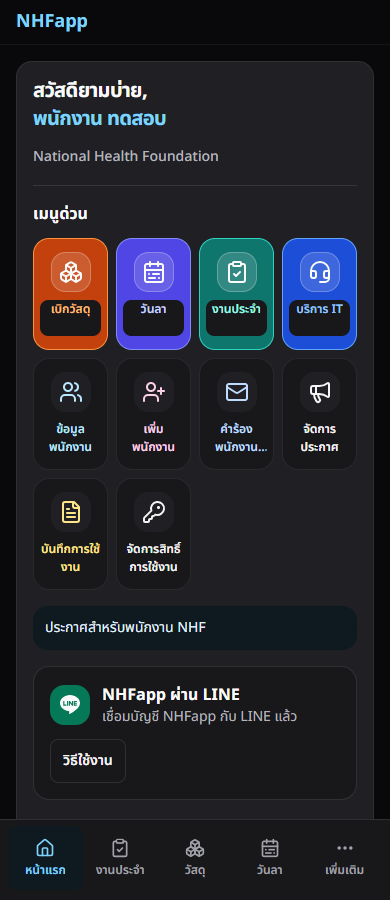
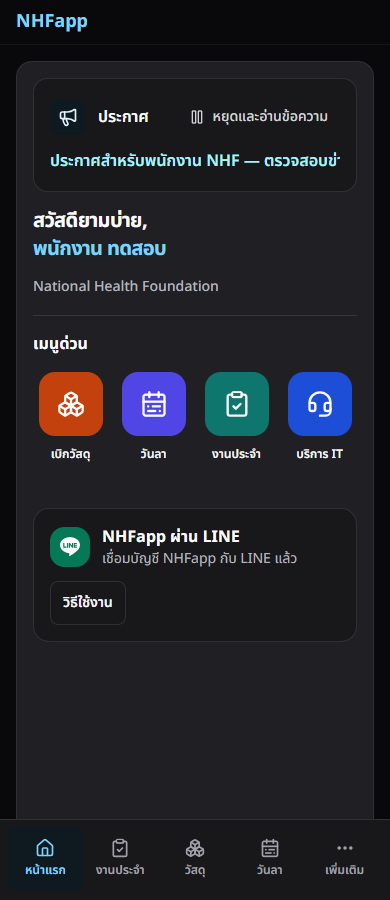
fix(dashboard): restrict cardless mobile shortcuts to featured modules

diff --git a/__tests__/components/DashboardHomeSection.test.tsx b/__tests__/components/DashboardHomeSection.test.tsx
@@ -178,12 +178,14 @@ describe("compact NHF quick actions", () => {
         const grid = screen.getByRole("region", { name: "เมนูด่วน" });
         const buttons = within(grid).getAllByRole("button");
         expect(buttons.map((button) => button.textContent)).toEqual(["เบิกวัสดุ", "วันลา", "งานประจำ", "บริการ IT"]);
-        expect(buttons[0]).toHaveClass("bg-module-stock-dashboard-surface");
-        expect(buttons[1]).toHaveClass("bg-module-leave-dashboard-surface");
-        expect(buttons[2]).toHaveClass("bg-module-routine-dashboard-surface");
-        expect(buttons[3]).toHaveClass("bg-module-it-dashboard-surface");
+        expect(buttons[0].querySelector("[data-shortcut-icon]")).toHaveClass("bg-module-stock-dashboard-surface");
+        expect(buttons[1].querySelector("[data-shortcut-icon]")).toHaveClass("bg-module-leave-dashboard-surface");
+        expect(buttons[2].querySelector("[data-shortcut-icon]")).toHaveClass("bg-module-routine-dashboard-surface");
+        expect(buttons[3].querySelector("[data-shortcut-icon]")).toHaveClass("bg-module-it-dashboard-surface");
         for (const button of buttons) {
-            expect(button).toHaveClass("h-28", "focus-visible:ring-2");
+            expect(button).toHaveClass("bg-transparent", "focus-visible:ring-2");
+            expect(button.querySelector("[data-shortcut-icon]")).toHaveClass("size-16");
+            expect(button.querySelector("[data-shortcut-label]")?.parentElement).toBe(button);
             expect(button.querySelector(".line-clamp-2")).not.toBeNull();
             expect(button).not.toHaveTextContent("Quick action");
         }
@@ -201,9 +203,34 @@ describe("compact NHF quick actions", () => {
         vi.mocked(useDashboardDataContext).mockReturnValue({ status: "authenticated", user: undefined, isAdmin: true, availableMenuGroups: DASHBOARD_MENU_GROUPS });
         view.rerender(<DashboardHomeSection />);
         const grid = screen.getByRole("region", { name: "เมนูด่วน" });
-        expect(within(grid).getByRole("button", { name: "จัดการสิทธิ์การใช้งาน" })).toBeInTheDocument();
-        fireEvent.click(within(grid).getByRole("button", { name: "จัดการสิทธิ์การใช้งาน" }));
-        expect(useDashboardUIContext().handleMenuClick).toHaveBeenCalledWith("authorization-administration");
+        expect(within(grid).getAllByRole("button")).toHaveLength(4);
+        expect(within(grid).queryByText("จัดการสิทธิ์การใช้งาน")).not.toBeInTheDocument();
+        expect(within(grid).queryByText(/ทั้งหมด|เพิ่มเติม/)).not.toBeInTheDocument();
+        // Secondary services remain in the unchanged desktop presentation.
+        expect(screen.getByRole("button", { name: /จัดการสิทธิ์การใช้งาน/ })).toBeInTheDocument();
+    });
+
+    it("uses only Stock and Routine for a limited capability set", () => {
+        const group = DASHBOARD_MENU_GROUPS[0];
+        renderHome([{ ...group, items: group.items.filter(item => ["stock", "routine"].includes(item.id)) }]);
+        expect(within(screen.getByRole("region", { name: "เมนูด่วน" })).getAllByRole("button").map(button => button.textContent)).toEqual(["เบิกวัสดุ", "งานประจำ"]);
+    });
+
+    it("does not substitute administrative services when no featured module is available", () => {
+        renderHome(DASHBOARD_MENU_GROUPS.slice(1));
+        const grid = screen.getByRole("region", { name: "เมนูด่วน" });
+        expect(within(grid).queryByRole("button")).not.toBeInTheDocument();
+        expect(within(grid).getByText("ยังไม่มีเมนูที่พร้อมใช้งานสำหรับบัญชีนี้")).toBeInTheDocument();
+    });
+
+    it("places the announcement before the greeting and actions in DOM reading order", () => {
+        renderHome(DASHBOARD_MENU_GROUPS);
+        const announcement = screen.getByText("ประกาศทดสอบ");
+        const greeting = screen.getByRole("heading", { level: 1 });
+        const grid = screen.getByRole("region", { name: "เมนูด่วน" });
+        expect(announcement.compareDocumentPosition(greeting) & Node.DOCUMENT_POSITION_FOLLOWING).toBeTruthy();
+        expect(greeting.compareDocumentPosition(grid) & Node.DOCUMENT_POSITION_FOLLOWING).toBeTruthy();
+        expect(announcement.parentElement?.className).not.toMatch(/order-/);
     });
 
     it("shows an empty state and follows actual feature/capability filtering", () => {
@@ -226,7 +253,12 @@ describe("compact NHF quick actions", () => {
             renderHome(groups);
             const grid = screen.getByRole("region", { name: "เมนูด่วน" });
             expect(within(grid).getByRole("button", { name: "วันลา (ยังไม่พร้อมให้บริการ)" })).not.toBeDisabled();
-            expect(within(grid).getByText(longLabel)).toHaveClass("line-clamp-2", "[overflow-wrap:anywhere]");
+            expect(within(grid).queryByText(longLabel)).not.toBeInTheDocument();
+            const leave = within(grid).getByRole("button", { name: "วันลา (ยังไม่พร้อมให้บริการ)" });
+            expect(within(leave).getByText("ยังไม่พร้อม")).toBeVisible();
+            expect(leave.querySelector("[data-shortcut-icon]")).toHaveClass("bg-surface-raised");
+            fireEvent.click(leave);
+            expect(useDashboardUIContext().handleMenuClick).toHaveBeenCalledWith("leave-management");
         } finally { vi.unstubAllEnvs(); }
     });
 });

diff --git a/components/dashboard/sections/DashboardHomeSection.tsx b/components/dashboard/sections/DashboardHomeSection.tsx
@@ -288,16 +288,17 @@ function CompactQuickAction({ item, onClick }: { item: MenuItem; onClick: () => 
     const config = MENU_ITEM_CONFIG[item.id] ?? DEFAULT_MENU_CONFIG;
     const Icon = item.icon;
     return (
-        <button type="button" onClick={onClick}
-            aria-label={`${COMPACT_LABELS[item.id] ?? item.sidebarLabel ?? item.label}${item.unavailable ? " (ยังไม่พร้อมให้บริการ)" : ""}`}
-            className={cn(
-                "flex h-28 min-w-0 w-full flex-col items-center justify-center gap-2 rounded-2xl border px-1.5 py-3 text-center transition-[background-color,transform] duration-150 active:translate-y-px focus-visible:outline-none focus-visible:ring-2 focus-visible:ring-offset-2",
-                config.featured ? [config.featuredSurface, config.featuredBorder, config.featuredFocus, "text-content-on-brand"] : ["border-border-muted bg-surface-raised hover:bg-surface-subtle focus-visible:ring-dashboard-focus", config.text],
+        <button type="button" onClick={onClick} data-shortcut-id={item.id}
+            aria-label={`${COMPACT_LABELS[item.id]}${item.unavailable ? " (ยังไม่พร้อมให้บริการ)" : ""}`}
+            className="group flex min-w-0 w-full flex-col items-center gap-2 rounded-2xl bg-transparent px-0.5 pt-1 pb-2 text-center text-content-primary focus-visible:outline-none focus-visible:ring-2 focus-visible:ring-dashboard-focus focus-visible:ring-offset-2">
+            <span data-shortcut-icon className={cn(
+                "flex size-16 shrink-0 items-center justify-center rounded-2xl transition-transform duration-150 group-active:translate-y-px motion-reduce:transform-none",
+                item.unavailable ? "bg-surface-raised text-content-muted" : [config.featuredSurface, "text-content-on-brand"],
             )}>
-            <span className={cn("flex size-10 shrink-0 items-center justify-center rounded-xl", config.featured ? "border border-content-on-brand/25 bg-content-on-brand/15" : "bg-surface-subtle")}>
-                <Icon className="size-6" aria-hidden="true" />
+                <Icon className="size-7" aria-hidden="true" />
             </span>
-            <span className={cn("line-clamp-2 h-9 w-full max-w-full rounded-md text-xs font-semibold leading-[1.125rem] [overflow-wrap:anywhere]", config.featured && [config.featuredControlSurface, config.text])}>{COMPACT_LABELS[item.id] ?? item.sidebarLabel ?? item.label}</span>
+            <span data-shortcut-label className="line-clamp-2 h-10 w-full max-w-full text-xs font-semibold leading-5 [overflow-wrap:anywhere]">{COMPACT_LABELS[item.id]}</span>
+            {item.unavailable ? <span className="text-xs leading-5 text-content-secondary">ยังไม่พร้อม</span> : null}
         </button>
     );
 }
@@ -350,10 +351,10 @@ export function DashboardHomeSection({ announcement }: { announcement?: ReactNod
     return (
         <div className="relative min-h-[calc(100dvh-6rem)] rounded-2xl border border-border-subtle/70 bg-dashboard-workspace p-4 pb-[calc(1rem+env(safe-area-inset-bottom))] sm:rounded-3xl md:p-8 md:pb-[calc(2rem+env(safe-area-inset-bottom))]">
             <div className="relative z-10 mx-auto flex max-w-7xl flex-col gap-4 lg:block lg:space-y-6">
-                {announcement ? <div className="order-3">{announcement}</div> : null}
+                {announcement}
                 <section
                     aria-labelledby="dashboard-home-heading"
-                    className="order-1 border-b border-border-subtle pb-4 lg:pb-8"
+                    className="border-b border-border-subtle pb-4 lg:pb-8"
                 >
                     <div className="min-w-0 max-w-3xl">
                         <div className="mb-5 hidden items-center lg:flex gap-2 text-xs font-bold uppercase tracking-[0.14em] text-brand-foreground">
@@ -410,15 +411,15 @@ export function DashboardHomeSection({ announcement }: { announcement?: ReactNod
                     </div>
 
                 </section>
-                <section aria-label="เมนูด่วน" className="order-2 lg:hidden">
+                <section aria-label="เมนูด่วน" className="lg:hidden">
                     <h2 className="mb-3 text-base font-bold text-content-heading">เมนูด่วน</h2>
-                    {activeItems.length === 0 ? <p className="rounded-xl border border-border-subtle bg-surface-raised p-4 text-sm text-content-secondary">ยังไม่มีเมนูที่พร้อมใช้งานสำหรับบัญชีนี้</p> : (
+                    {featuredItems.length === 0 ? <p className="rounded-xl border border-border-subtle bg-surface-raised p-4 text-sm text-content-secondary">ยังไม่มีเมนูที่พร้อมใช้งานสำหรับบัญชีนี้</p> : (
                         <div className="dashboard-compact-actions grid grid-cols-3 gap-2 min-[360px]:grid-cols-4">
-                            {activeItems.map((item) => <CompactQuickAction key={item.id} item={item} onClick={() => handleMenuClick(item.id)} />)}
+                            {featuredItems.filter((item) => FEATURED_ORDER.has(item.id)).map((item) => <CompactQuickAction key={item.id} item={item} onClick={() => handleMenuClick(item.id)} />)}
                         </div>
                     )}
                 </section>
-                <div className="order-4"><LineAddFriendCard tone="light" /></div>
+                <div><LineAddFriendCard tone="light" /></div>
 
                 <div className="hidden pt-4 lg:block">
                     {allMenuItems.length === 0 && (

diff --git a/components/dashboard/feedback/SectionSkeleton.tsx b/components/dashboard/feedback/SectionSkeleton.tsx
@@ -67,7 +67,7 @@ export function DashboardHomeSkeleton(): ReactElement {
                     <Skeleton className="h-7 w-56 max-w-full" />
                     <Skeleton className="h-5 w-40" />
                     <div className="grid grid-cols-3 gap-2 min-[360px]:grid-cols-4">
-                        {Array.from({ length: 4 }).map((_, index) => <Skeleton key={index} className="h-28 rounded-2xl" />)}
+                        {Array.from({ length: 4 }).map((_, index) => <div key={index} className="flex flex-col items-center gap-2"><Skeleton className="size-16 rounded-2xl" /><Skeleton className="h-10 w-16" /></div>)}
                     </div>
                 </div>
                 <div className="hidden space-y-6 lg:block">

diff --git a/docs/verification/mobile-navigation/README.md b/docs/verification/mobile-navigation/README.md
@@ -29,9 +29,13 @@ Read-only DEMI behavioral reference: `46f27bcf161f124d2c3231612db6778ea3d52919`.
   cancelling keeps the form mounted. This is not a new
   global browser-unload/history interception system.
 - `FeaturedCard` and `RegularCard` implementations, desktop Sidebar primitives,
-  DashboardProvider and server route-access code were compared against `main`
-  and remain unchanged. Desktop grid classes remain unchanged. Mobile cards use
-  the same filtered items, icons, handlers and `MENU_ITEM_CONFIG` tokens.
+  server route-access code remain unchanged. Desktop grid classes remain unchanged.
+  Mobile launcher shortcuts use only `featuredItems` in `FEATURED_ORDER` (Stock,
+  Leave, Routine, IT), the existing icons, handlers and module tokens on icon tiles.
+  Administrative/secondary services remain in More and Desktop Sidebar only.
+  Published announcements precede greeting/actions in DOM and visual order; null
+  announcements render no empty container. Unavailable Leave stays navigable with
+  a subdued tile and visible status.
 - No schema, migration, package, API, business-rule, authentication or session
   changes. No summaries, KPI widgets or summary fetching were introduced.
 
@@ -60,10 +64,14 @@ Read-only DEMI behavioral reference: `46f27bcf161f124d2c3231612db6778ea3d52919`.
 
 ## Rendered browser evidence
 
-`node scripts/check-mobile-navigation.mjs` passed **64 cases** in local Chromium:
-320, 375, 390, 768, 1024, 1440px; light and dark themes; Dashboard Home, More,
+`node scripts/check-mobile-navigation.mjs` passed **88 cases** in local Chromium:
+320, 375, 390, 422, 768, 1024, 1440px; light and dark themes; Dashboard Home, More,
 an inline-form/floating-action fixture and LIFF shell. Additional 320/390px
-fixtures cover one module, no modules, disabled flags and long Thai labels.
+fixtures cover one/two/no modules, administrative-only services, disabled flags,
+long Thai source labels, unavailable Leave and unpublished announcements.
+Assertions verify the exact four allowed IDs, transparent outer wrappers, one
+64px icon tile, labels outside tiles and announcement DOM/visual order.
+Home focused Vitest: **20 tests passed** after the product correction.
 Checks cover navigation visibility at `lg`, 3/4-column density, 44px minimum
 targets, no horizontal page overflow, sidebar collapse/expand, keyboard focus,
 cancel/accept navigation with dirty state, browser history and floating-action
@@ -93,6 +101,9 @@ Optional positional argument selects one viewport for focused feedback, e.g.
 | Surface | Light | Dark |
 | --- | --- | --- |
 | Dashboard 390px | [render](390-dashboard-light.png) | [render](390-dashboard-dark.png) |
+| No announcement 390px | [render](390-dashboard-no-announcement-light.png) | [render](390-dashboard-no-announcement-dark.png) |
+| Unavailable Leave 390px | [render](390-dashboard-unavailable-light.png) | [render](390-dashboard-unavailable-dark.png) |
+| Stock/Routine only 390px | [render](390-dashboard-limited-light.png) | [render](390-dashboard-limited-dark.png) |
 | More 390px | [render](390-dashboard-more-light.png) | [render](390-dashboard-more-dark.png) |
 | Desktop 1440px | [render](1440-dashboard-light.png) | [render](1440-dashboard-dark.png) |
 | LIFF 390px | [render](390-liff-routine-light.png) | [render](390-liff-routine-dark.png) |
